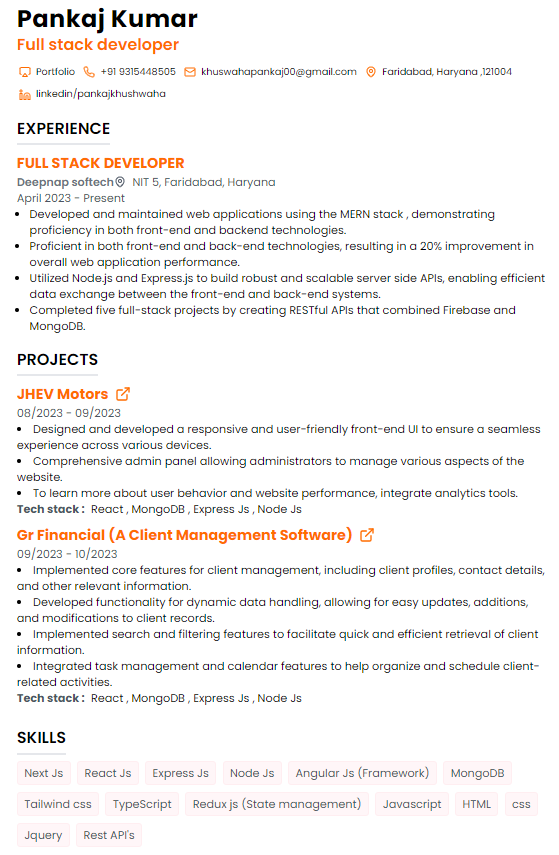
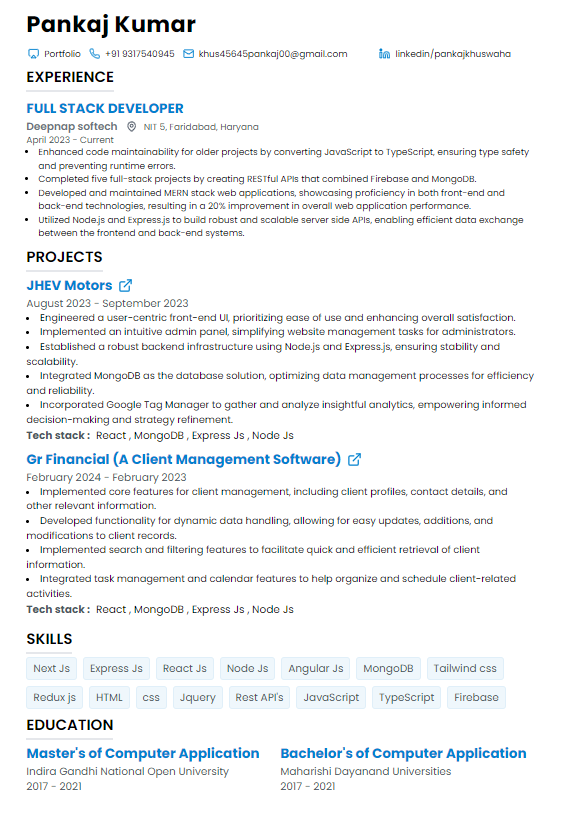
adding template image

Changed region(s): [[0.0304, 0.0, 0.9732, 0.9828]]

diff --git a/src/templates/resume3/index.jsx b/src/templates/resume3/index.jsx
@@ -8,7 +8,7 @@ import Summary from "./Summary";
 
 const resume3 = {
   name: "ATS Friendly",
-  image: "/resumes/2.png",
+  image: "/resumes/3.png",
   template: [
     { id: "info", component: <Info /> },
     // { id: "contact", component: <Contact /> },
